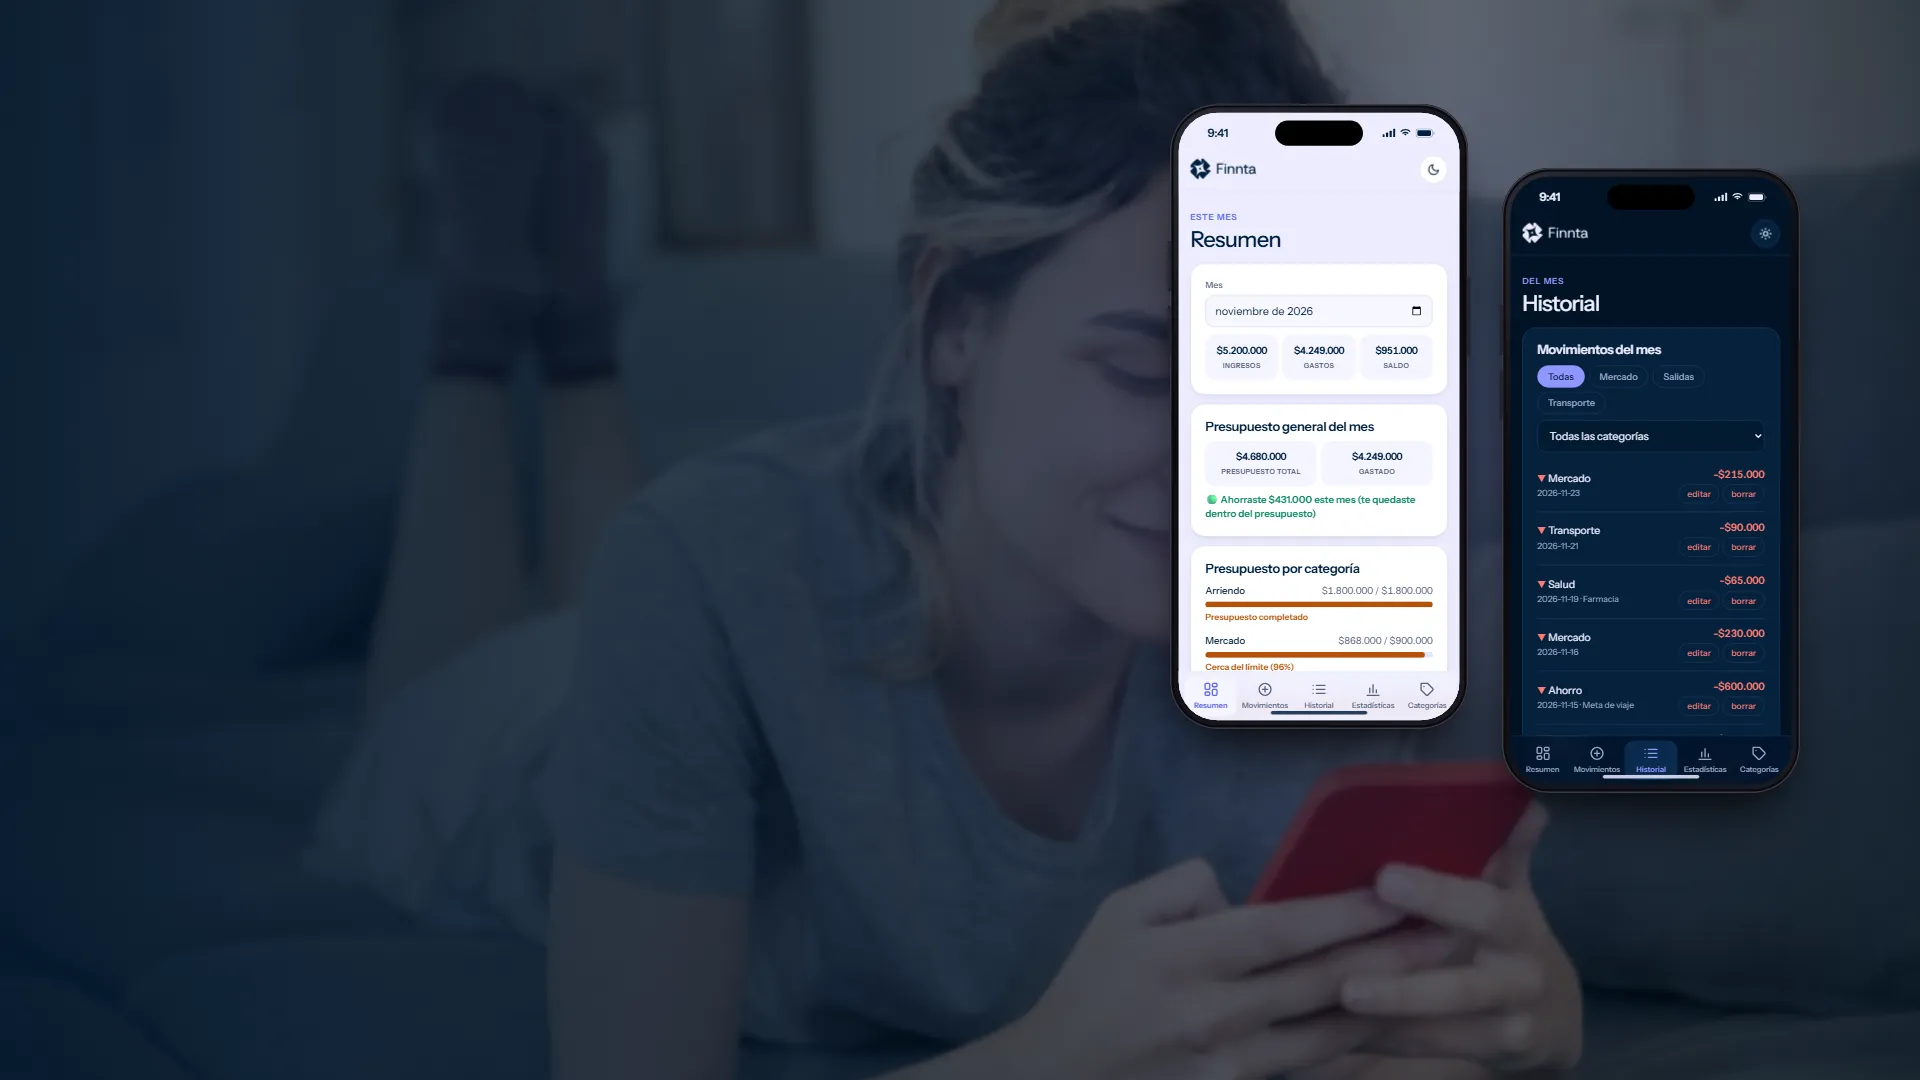
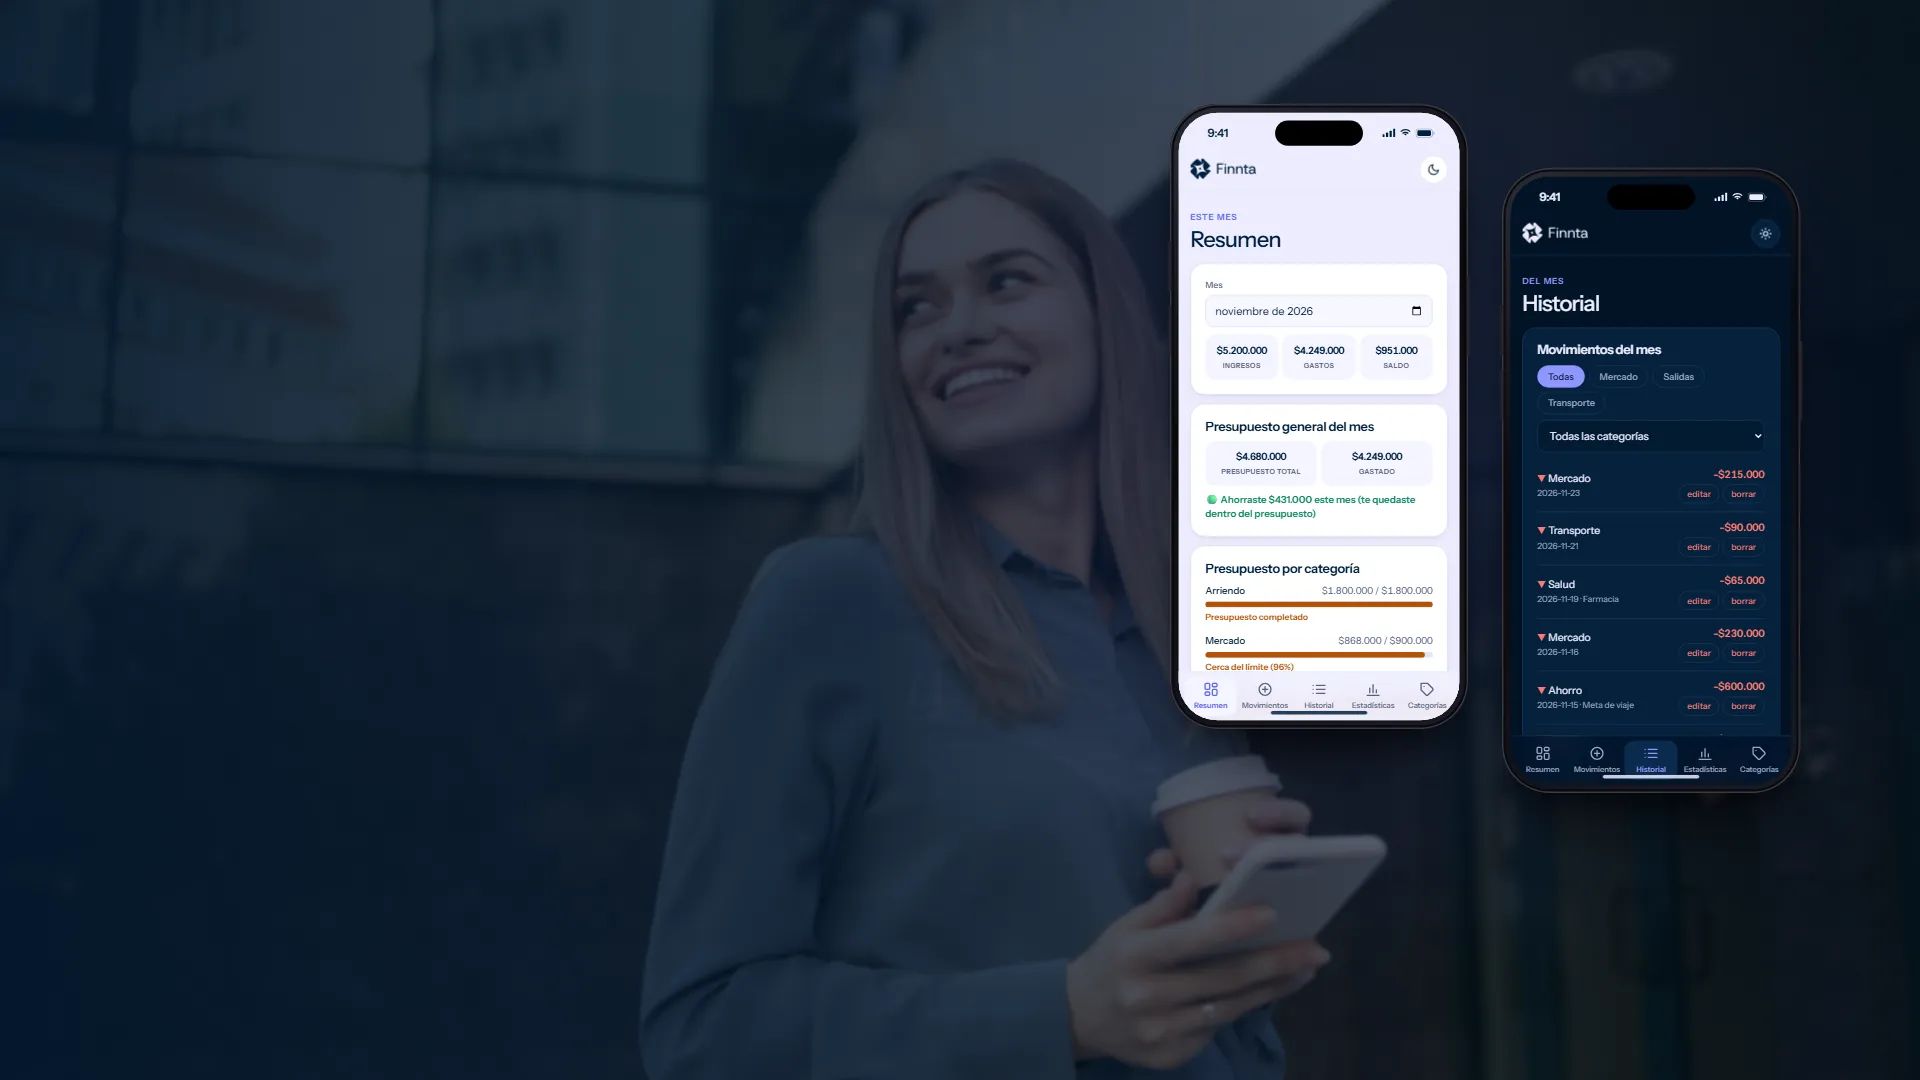
Finnta: foto nueva en la portada del caso y tarjeta del inicio con celulares grandes
- Tarjeta del inicio con imagen propia (tarjeta-1920.jpg): celulares grandes y la cara libre entre el texto y los celulares.
- Portada del caso con la misma foto nueva.
- Nueva opción imagePositionMobile en projects.js para elegir el recorte en celular.
- styles.css v=23, main.js v=9, projects.js v=11.

diff --git a/css/styles.css b/css/styles.css
@@ -981,6 +981,7 @@ body.case-page .menu-button span { background: #fff; }
   .heading, .about-statement { font-size: 44px; letter-spacing: -2px; }
   .about-statement.first { margin-top: 64px; }
   .case-study { height: 520px; padding: 32px 24px; }
+  .case-study { --bg-pos: var(--bg-pos-m, center); }
   .case-study-logo { width: calc(var(--logo-w, 148px) * .7); }
   .h3-display { font-size: 34px; line-height: 38px; letter-spacing: -1.5px; }
   .case-study-button { width: 190px; height: 48px; font-size: 16px; }
@@ -1045,7 +1046,7 @@ body.case-page .menu-button span { background: #fff; }
   .case-split-media--video { aspect-ratio: 16 / 9; }
   .case-gallery--wide picture { aspect-ratio: 16 / 9; }
   .case-finnta .case-figure--wide picture { aspect-ratio: 16 / 9; }
-  .case-finnta .case-hero-img { object-position: 68% center; }
+  .case-finnta .case-hero-img { object-position: 56% center; }
   .color-roles { grid-template-columns: 1fr; gap: 10px; }
   .case-finnta .type-name { font-size: 44px; letter-spacing: -1.5px; }
 }

diff --git a/js/projects.js b/js/projects.js
@@ -7,6 +7,7 @@
  *  logoWidth : (opcional) ancho del logo en px en escritorio (mismo tamaño que en la portada del caso).
  *  title  : frase corta que describe el proyecto
  *  image  : (opcional) imagen de fondo, ej. "img/proyectos/proyecto-1.jpg"
+ *  imagePositionMobile : (opcional) parte de la imagen que se ve en celular, ej. "30% center"
  *  color  : color de fondo mientras no haya imagen
  *  link   : URL del caso de estudio. Si está vacío, el botón muestra "Próximamente".
  */
@@ -25,7 +26,8 @@ const PROJECTS = [
     logo: "img/logos/finnta-blanco.svg",
     logoWidth: 248,
     title: "Una marca que guía a invertir con confianza",
-    image: "img/proyectos/finnta/portada-1920.jpg",
+    image: "img/proyectos/finnta/tarjeta-1920.jpg",
+    imagePositionMobile: "24% center",
     color: "#00203f",
     link: "finnta",
   },

diff --git a/index.html b/index.html
@@ -8,7 +8,7 @@
   <link rel="preconnect" href="https://fonts.googleapis.com" />
   <link rel="preconnect" href="https://fonts.gstatic.com" crossorigin />
   <link href="https://fonts.googleapis.com/css2?family=Inter:wght@300;400;500;600;700&display=swap" rel="stylesheet" />
-  <link rel="stylesheet" href="css/styles.css?v=22" />
+  <link rel="stylesheet" href="css/styles.css?v=23" />
   <link rel="icon" href="favicon.svg" type="image/svg+xml" />
   <link rel="icon" href="favicon-32.png" type="image/png" sizes="32x32" />
   <link rel="icon" href="favicon-16.png" type="image/png" sizes="16x16" />
@@ -127,7 +127,7 @@
     </footer>
   </section>
 
-  <script src="js/projects.js?v=10"></script>
-  <script src="js/main.js?v=8"></script>
+  <script src="js/projects.js?v=11"></script>
+  <script src="js/main.js?v=9"></script>
 </body>
 </html>

diff --git a/proyectos.html b/proyectos.html
@@ -8,7 +8,7 @@
   <link rel="preconnect" href="https://fonts.googleapis.com" />
   <link rel="preconnect" href="https://fonts.gstatic.com" crossorigin />
   <link href="https://fonts.googleapis.com/css2?family=Inter:wght@300;400;500;600;700&display=swap" rel="stylesheet" />
-  <link rel="stylesheet" href="css/styles.css?v=22" />
+  <link rel="stylesheet" href="css/styles.css?v=23" />
   <link rel="icon" href="favicon.svg" type="image/svg+xml" />
   <link rel="icon" href="favicon-32.png" type="image/png" sizes="32x32" />
   <link rel="icon" href="favicon-16.png" type="image/png" sizes="16x16" />
@@ -83,7 +83,7 @@
     </footer>
   </section>
 
-  <script src="js/projects.js?v=10"></script>
-  <script src="js/main.js?v=8"></script>
+  <script src="js/projects.js?v=11"></script>
+  <script src="js/main.js?v=9"></script>
 </body>
 </html>

diff --git a/finnta.html b/finnta.html
@@ -8,7 +8,7 @@
   <link rel="preconnect" href="https://fonts.googleapis.com" />
   <link rel="preconnect" href="https://fonts.gstatic.com" crossorigin />
   <link href="https://fonts.googleapis.com/css2?family=Inter:wght@300;400;500;600;700&family=Instrument+Sans:wght@400;500;600;700&display=swap" rel="stylesheet" />
-  <link rel="stylesheet" href="css/styles.css?v=22" />
+  <link rel="stylesheet" href="css/styles.css?v=23" />
   <link rel="icon" href="favicon.svg" type="image/svg+xml" />
   <link rel="icon" href="favicon-32.png" type="image/png" sizes="32x32" />
   <link rel="icon" href="favicon-16.png" type="image/png" sizes="16x16" />
@@ -293,6 +293,6 @@
     </footer>
   </section>
 
-  <script src="js/main.js?v=8"></script>
+  <script src="js/main.js?v=9"></script>
 </body>
 </html>

diff --git a/suintec.html b/suintec.html
@@ -8,7 +8,7 @@
   <link rel="preconnect" href="https://fonts.googleapis.com" />
   <link rel="preconnect" href="https://fonts.gstatic.com" crossorigin />
   <link href="https://fonts.googleapis.com/css2?family=Inter:wght@300;400;500;600;700&family=Zalando+Sans:wght@300;400;500;700&display=swap" rel="stylesheet" />
-  <link rel="stylesheet" href="css/styles.css?v=22" />
+  <link rel="stylesheet" href="css/styles.css?v=23" />
   <link rel="icon" href="favicon.svg" type="image/svg+xml" />
   <link rel="icon" href="favicon-32.png" type="image/png" sizes="32x32" />
   <link rel="icon" href="favicon-16.png" type="image/png" sizes="16x16" />
@@ -267,6 +267,6 @@
     </footer>
   </section>
 
-  <script src="js/main.js?v=8"></script>
+  <script src="js/main.js?v=9"></script>
 </body>
 </html>

diff --git a/js/main.js b/js/main.js
@@ -6,9 +6,10 @@ if (container && typeof PROJECTS !== "undefined") PROJECTS.forEach((p) => {
   card.className = "case-study";
 
   const bg = p.image
-    ? `linear-gradient(35deg, rgba(0,0,0,.66), rgba(0,0,0,0) 70%), url("${p.image}") center / cover no-repeat`
+    ? `linear-gradient(35deg, rgba(0,0,0,.66), rgba(0,0,0,0) 70%), url("${p.image}") var(--bg-pos, center) / cover no-repeat`
     : `linear-gradient(35deg, rgba(0,0,0,.55), rgba(0,0,0,0) 70%), ${p.color || "#444"}`;
   card.style.background = bg;
+  if (p.imagePositionMobile) card.style.setProperty("--bg-pos-m", p.imagePositionMobile);
 
   const brand = p.logo
     ? `<img class="case-study-logo" src="${p.logo}" alt="${p.client}" loading="lazy"${p.logoWidth ? ` style="--logo-w: ${p.logoWidth}px"` : ""} />`

diff --git a/sobre-mi.html b/sobre-mi.html
@@ -8,7 +8,7 @@
   <link rel="preconnect" href="https://fonts.googleapis.com" />
   <link rel="preconnect" href="https://fonts.gstatic.com" crossorigin />
   <link href="https://fonts.googleapis.com/css2?family=Inter:wght@300;400;500;600;700&display=swap" rel="stylesheet" />
-  <link rel="stylesheet" href="css/styles.css?v=22" />
+  <link rel="stylesheet" href="css/styles.css?v=23" />
   <link rel="icon" href="favicon.svg" type="image/svg+xml" />
   <link rel="icon" href="favicon-32.png" type="image/png" sizes="32x32" />
   <link rel="icon" href="favicon-16.png" type="image/png" sizes="16x16" />
@@ -178,6 +178,6 @@
     </footer>
   </section>
 
-  <script src="js/main.js?v=8"></script>
+  <script src="js/main.js?v=9"></script>
 </body>
 </html>
